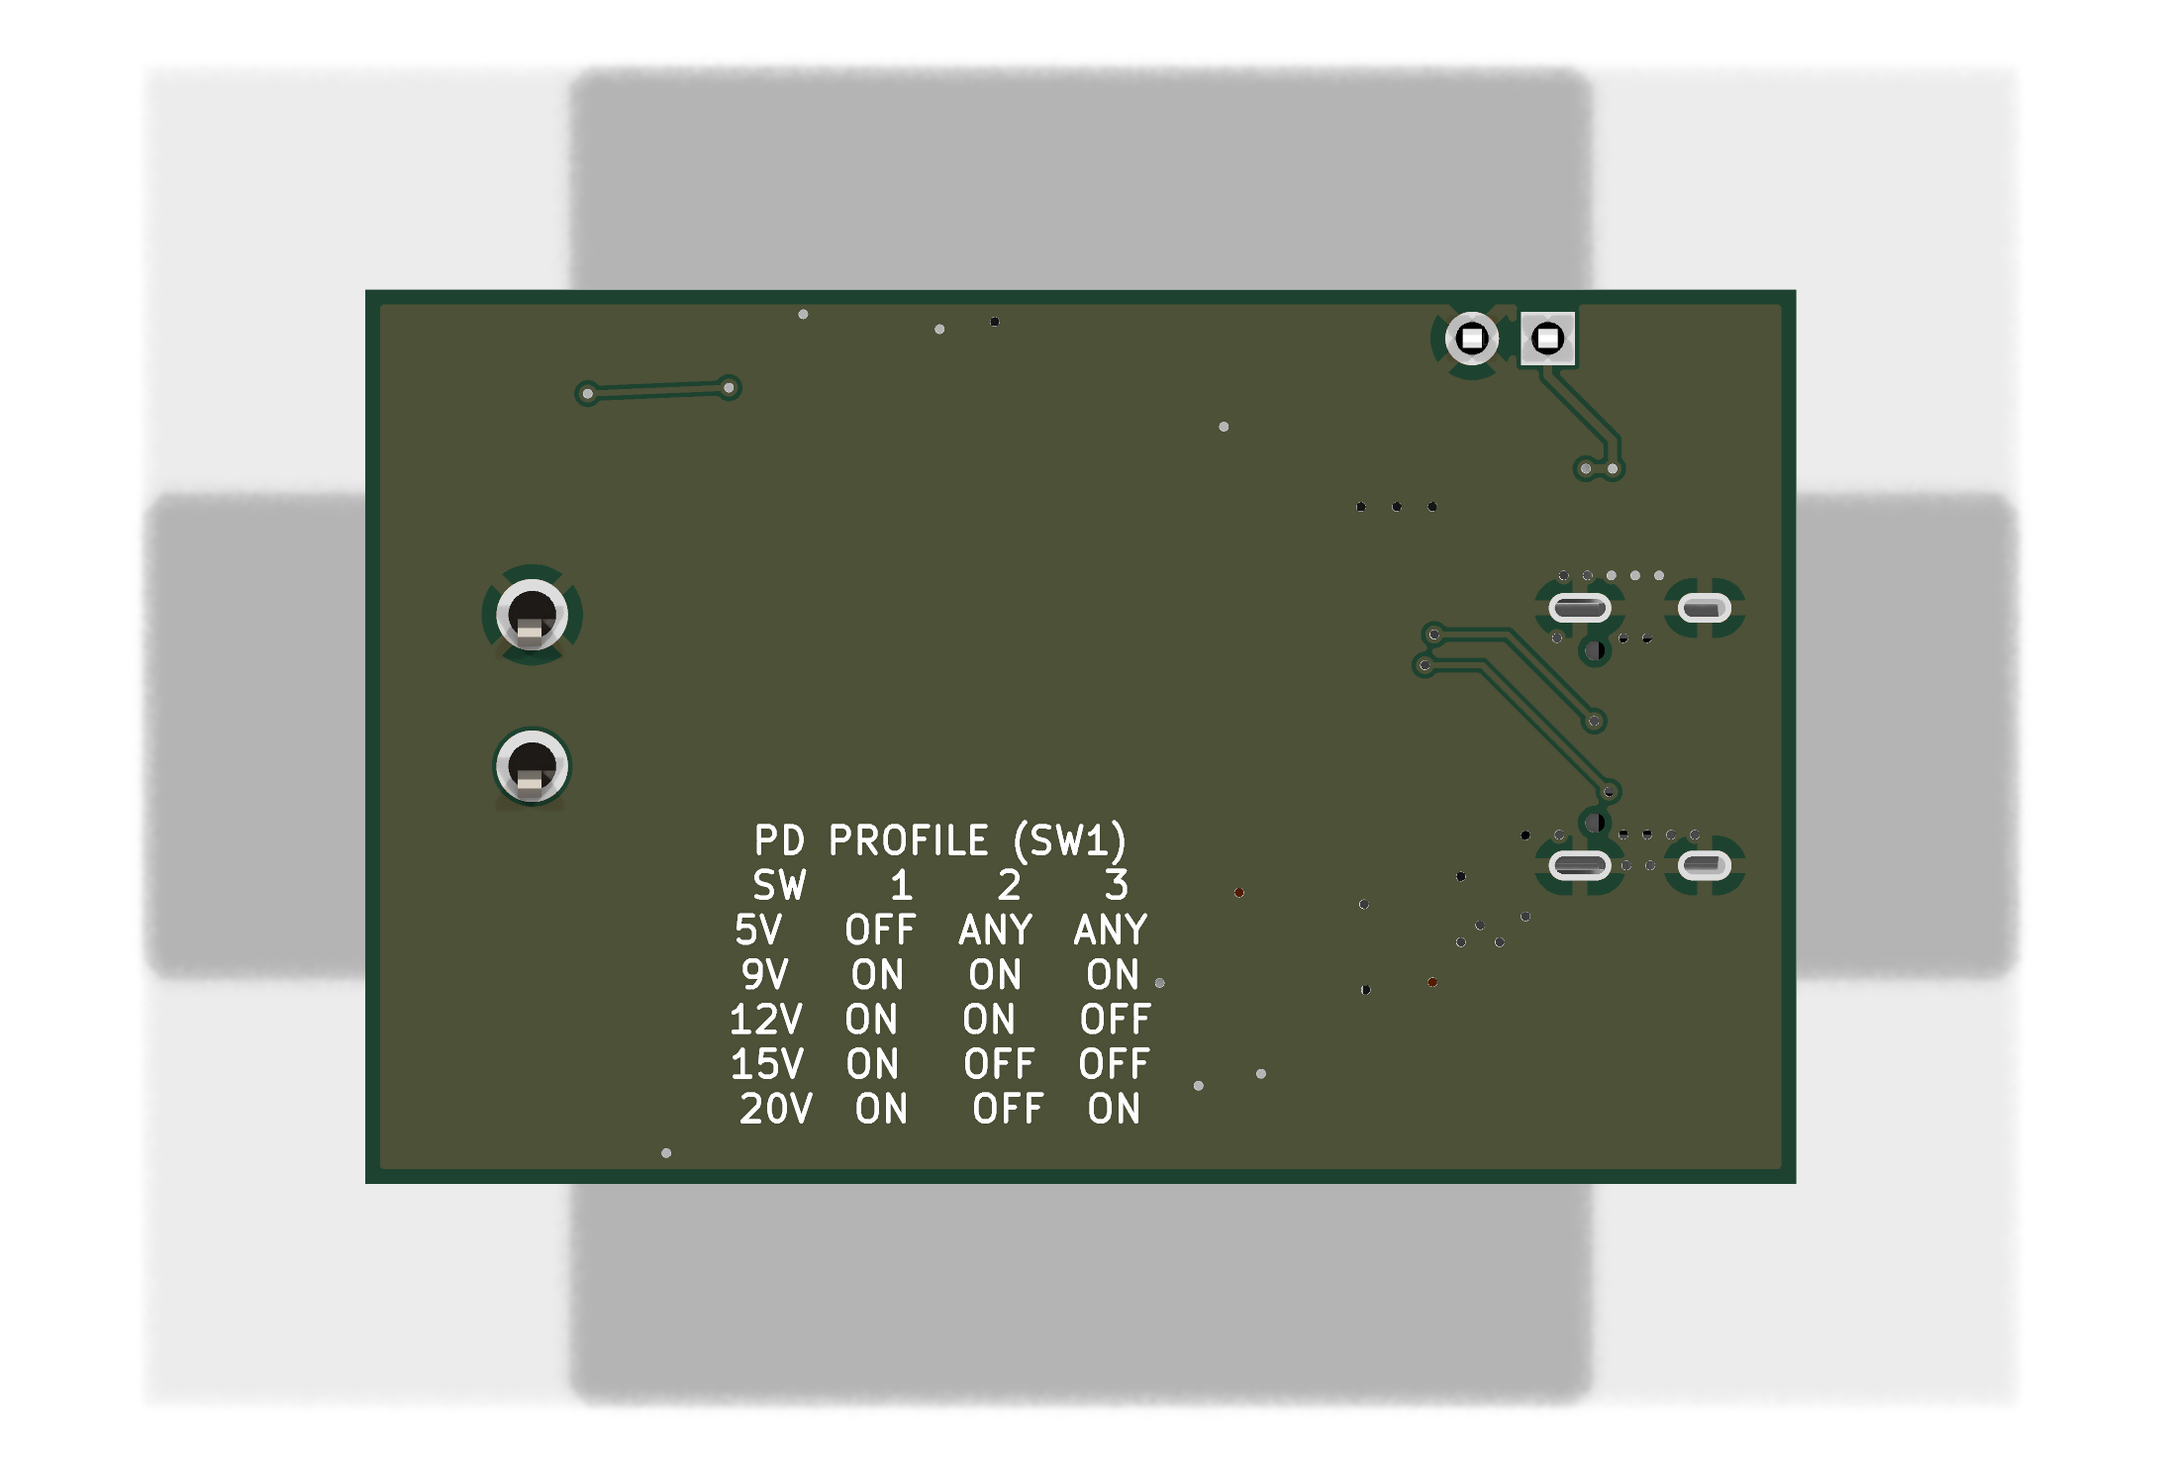
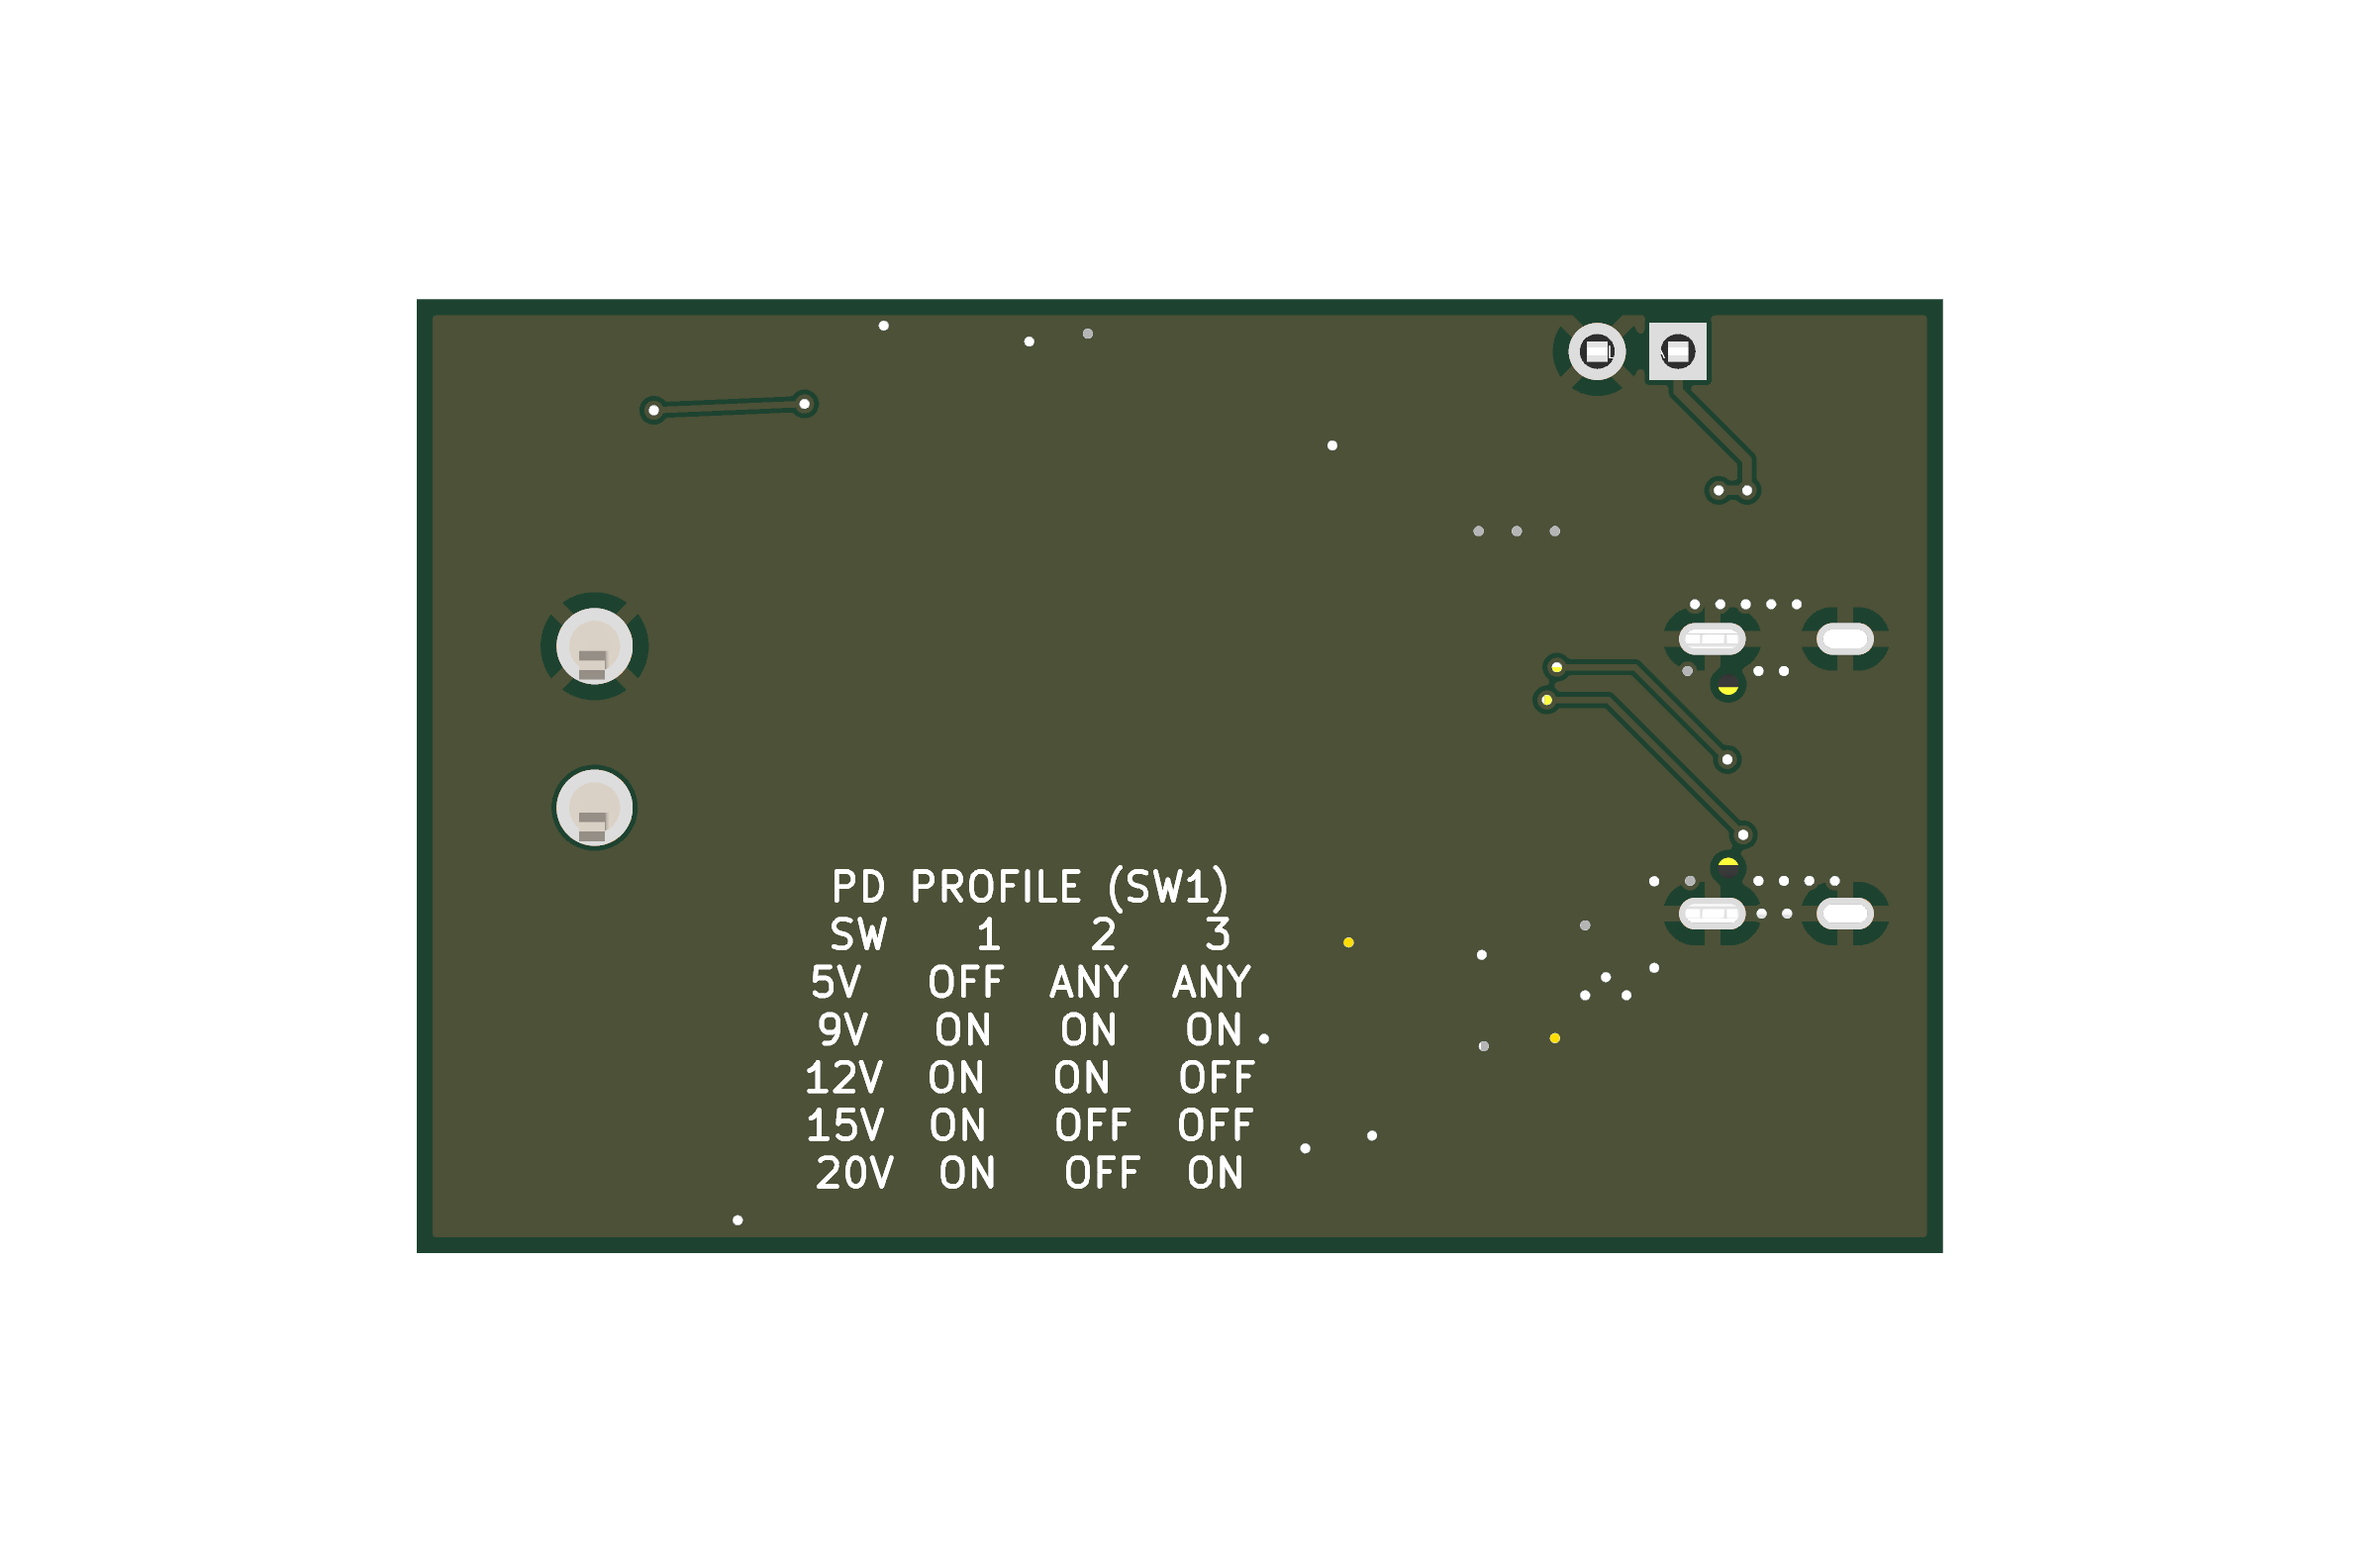
pd-trigger: fix J1 3D-model origin offset (+2mm mating axis, cosmetic)
Footprint verified dimension-exact vs GCT USB4105 drawing (pegs O0.65 @
5.78, slots 1.0x2.1/1.0x1.8 @ 3.68/4.18, 12x1.15 contacts) - the fab
order is correct; only the EasyEDA model origin was off. Board + lib
copies fixed, canonical render_final regenerated, LEARNINGS [easyeda2kicad]
entry (renders judge models, drills judge boards).

Claude-Session: https://claude.ai/code/session_01QxQELDc1QyzqWc5awFpHZL

diff --git a/LEARNINGS.md b/LEARNINGS.md
@@ -1276,3 +1276,96 @@ works; real price 40.00 USD for 10x 48x30 2L 2oz HASL vs our 19.65 estimate - or
 returns code 2501 no_audit_result_error immediately after upload (JLC DFM runs async - re-poll
 later; quote proceeds without it); calculate returned NO shipList because we pass no country -
 freight attestation (N3 gate) needs a country input plumbed before the first create.
+
+## 2026-07-29 [routing][drc] A net-wide HV clearance rule makes fine-pitch HV PADS unroutable, not just tight
+lumina-carrier P7. The hand-written `HV_48V_clearance` (0.635 mm, TI TPS2378 guidance) excluded
+only `!(A.Type=='Pad' && B.Type=='Pad')`. That stops the rule firing between two pins of a package
+but NOT between a pin and the fan-out stub that must land on it - a track inherits its pad's
+neighbourhood. Measured: 15 of 37 48 V pads sit < 0.635 mm from foreign copper OF THEIR OWN
+footprint (U1 SOIC-8 0.200 mm, U22 HTSSOP-20 0.250-0.375 mm, U20 pad-3-to-its-own-EP 0.295 mm,
+0805 caps 0.590 mm across their own pads), so those pads could not be connected at all. Confirmed
+live: a V48_RAW stub on U22 pad 6 fired the rule twice at 0.250 mm against pins 5 and 7. Fix that
+held: extend the exclusion to "both items inside ONE named footprint's courtyard"
+(`!(A.intersectsCourtyard('U22') && B.intersectsCourtyard('U22'))`, enumerated per refdes, never
+wildcarded). Generalisation: any `clearance` DRU floor above a package's own pad gap is
+unsatisfiable for that package - check `min(distance to foreign copper)` per pad BEFORE routing
+(work/p7/hv_escape.py is 40 lines and answers it).
+
+## 2026-07-29 [routing][kicad] Netclass clearance is PAD-BLIND - it cannot carry an HV rule
+Same board: setting the three 48 V netclasses to 0.635 mm clearance so Freerouting would honour it
+in the DSN produced 30 instant DRC errors between adjacent pins of U1/U22 and across C61/C62/C63's
+own two pads - a netclass has no pad-pair exclusion and no scoping at all. The .kicad_dru rule is
+the only mechanism that can express "0.635 mm except inside a package". Consequence for P7: the HV
+netclass clearance must stay at the routing floor (0.2 mm) and the DRU stays the DRC authority;
+Freerouting therefore routes HV at 0.2 mm and open-board HV spacing must be audited after routing.
+
+## 2026-07-29 [routing][parts] KRT: a 3-pad diff net routes as a MESH, and only the FIRST leg closes
+lumina-carrier MDI runs J1 (magjack) -> D10 (ESD array) -> U10 (PHY). Handed all three pads,
+`route_diff.py` builds J1-D10 + J1-U10 + D10-U10 (a ring: 96 mm of copper for a 50 mm chain, RX
+skew 51 mm); `--ordering mps` gives the same star. route_critical's own mitigation (detach the
+"unmatched stub pads" - here J1's staggered magjack pads) routes ONLY the short D10->U10 leg and
+silently leaves the 38 mm haul to Freerouting, i.e. uncoupled. Routing the legs sequentially does
+not work either: whichever leg runs second is DEFERRED ("electrically-short"/multipoint) because
+the first leg's copper already hangs off the shared middle pad. What works: route each leg on its
+OWN branch from the SAME clean board (detach U10 for one, J1 for the other, via
+route_critical.detach_stub_pads/restore_stub_pads) and graft the two copper sets with route_edit.
+The branches cannot see each other, so give them disjoint layers - F.Cu for one leg, B.Cu-preferred
+(`--layer-costs 3 1`) for the other - or they overlap and merge into a short (measured: 18
+shorting_items + 3 tracks_crossing when both preferred F.Cu). Post-graft, the two legs land on the
+shared pad at different points, so check_diffpair reports `branch_free: false` and falls back to
+TOTAL copper length - a bogus 45 mm "skew" that a short in-pad joining segment mostly resolves.
+
+## 2026-07-29 [parts][python] KRT: relative --work-dir silently breaks, and bash mangles net names
+route_critical passes `--fab-overrides <work>/fab_overrides.txt` through unchanged and runs KRT with
+`cwd=<krt plugins dir>`, so a RELATIVE `--work-dir` makes KRT die with "fab-overrides file not
+found" and route_critical reports `no JSON_SUMMARY`. Always pass absolute --pcb/--work-dir. Second
+trap, the LEARNINGS 2026-07-23 argv rule seen from the other side: it is not enough for the SCRIPT
+to pass a list - a net name typed on a Git-Bash command line is already mangled before python sees
+it (`/ETH_TXP` -> `C:/Program Files/Git/ETH_TXP`). Hard-code pair names in the driver, read them
+from a file, or set `MSYS2_ARG_CONV_EXCL='*'`.
+
+## 2026-07-29 [planes_gen][drc] Two footprint facts planes_gen cannot see: existing vias-in-pad, and touching regions
+(a) `ep_pads` picks the largest netted SMD pad per footprint and grids vias into it without checking
+whether the FOOTPRINT already ships thermal vias. U22 (HTSSOP-20 eFuse) carries 15 thru-hole
+0.6/0.3 mm vias-in-pad in its own land; planes_gen added 21 more on top -> 24 hole_to_hole warnings
+and 2 holes_co_located at 0.000 mm. Check `pads_of(ref)` for thru-hole pads inside the EP first.
+(b) planes_gen only de-conflicts zone priorities for regions that OVERLAP. Three same-net plane
+rectangles that merely TOUCH along a shared edge (the standard "positive rectangles cannot have a
+hole" pattern for a keepout band) are still `zones_intersect` ERRORS in KiCad 10 - assign distinct
+priorities explicitly. Same-net fills at different priorities still merge into one island (measured:
+7162 mm2 In1 GND, 1 island).
+
+## 2026-07-29 [drc][gates] drc_routed's --parity finds footprint/symbol mismatches the P6 place gate never runs
+The place gate runs DRC without `--parity`, so `footprint_symbol_mismatch` never appears until P7.
+On lumina-carrier H5 (mounting hole) had `exclude_from_bom` on the footprint and `(in_bom yes)` on
+the symbol - one warning, and drc_routed fails at err+warn = 0. Its four siblings H1-H4 are
+`board_only` so parity skips them entirely. Fix at the symbol (a mounting hole is not a BOM line),
+not the footprint. Worth a --parity DRC at the END of P6.
+
+## 2026-07-29 [routing][kicad] A module's own pads can sit INSIDE its declared antenna keepout
+lumina-carrier's ESP32-S3-WROOM-1 keepout was authored as 10 x 22 mm at the board edge (Espressif's
+normative zone is 6 x 18 mm; the extra 4 mm was margin). With U30 placed at its ICD datum the
+module's outermost pad columns (pins 1/2/3 and 38/39/40) land 2.0 mm INSIDE that band, so a rule
+area with "no tracks" over the literal rectangle makes six module pins unconnectable - and "copper
+free on every layer" is false the moment the module is placed. Author the rule area as the true
+antenna zone (measured from the footprint: `at` + courtyard extent, antenna = the last 6 mm of the
+25.5 mm body) plus a margin band that stops short of the pad rows. KiCad's Specctra export DOES
+carry rule areas to Freerouting as `(keepout "" (polygon <layer> 0 ...))`, one per layer - verified
+in the exported DSN - so the keepout is honoured by the autorouter, and stitch_vias skips pads
+inside it with `no_clear_spot`. No pipeline script creates rule areas; planes_gen only makes
+positive pours, so a small bundled-python SWIG worker (`SetIsRuleArea` + `SetDoNotAllowTracks/Vias/
+ZoneFills` + `SetLayerSet`) is the sanctioned way to add one.
+
+## 2026-07-29 [easyeda2kicad][kicad] 3D-model origin offsets in renders are NOT footprint defects
+pd-trigger J1 (GCT USB4105-GF-A-120, LCSC C5184243): the render showed the connector body
+overhanging the board edge with contacts/peg-slots exposed behind it - user flagged possible
+misalignment AFTER the fab order was placed. Ground truth: the fab drill/copper matched GCT's
+recommended layout dimension-for-dimension (2x O0.65 pegs at 5.78; slots 1.0x2.1 + 1.0x1.8 at
+3.68/4.18; 12x1.15 contacts 8x0.30+4x0.60 at 0.5 pitch) - the EasyEDA 3D model origin is just
+~2 mm off along the mating axis. Verification path that settles it in minutes: (1) the ordered
+.drl (tool table + hit coords) is the truth the fab received; (2) the manufacturer's drawing
+PDF (gct.co/files/drawings/<part>.pdf worked with a browser UA; LCSC's /datasheet/<code>.pdf
+URL returns HTML). Renders judge MODELS, drills judge BOARDS. fp_verify only covers parts with
+datasheet extracts (pd-trigger had U1 only) - connector footprints deserve the extract+verify
+treatment before ordering, and 3D-model offsets deserve a fix in the workspace lib so design-doc
+renders stop alarming humans.
